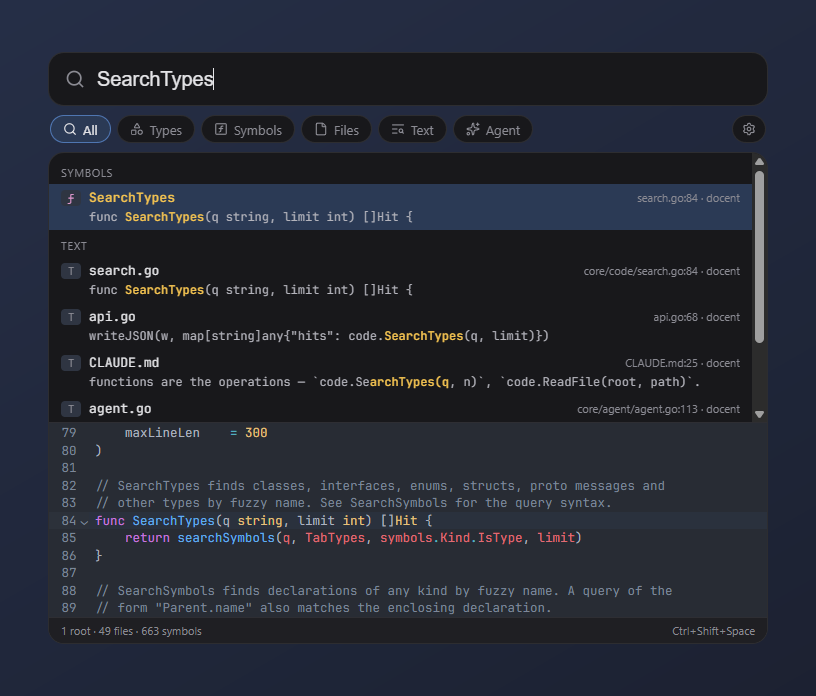
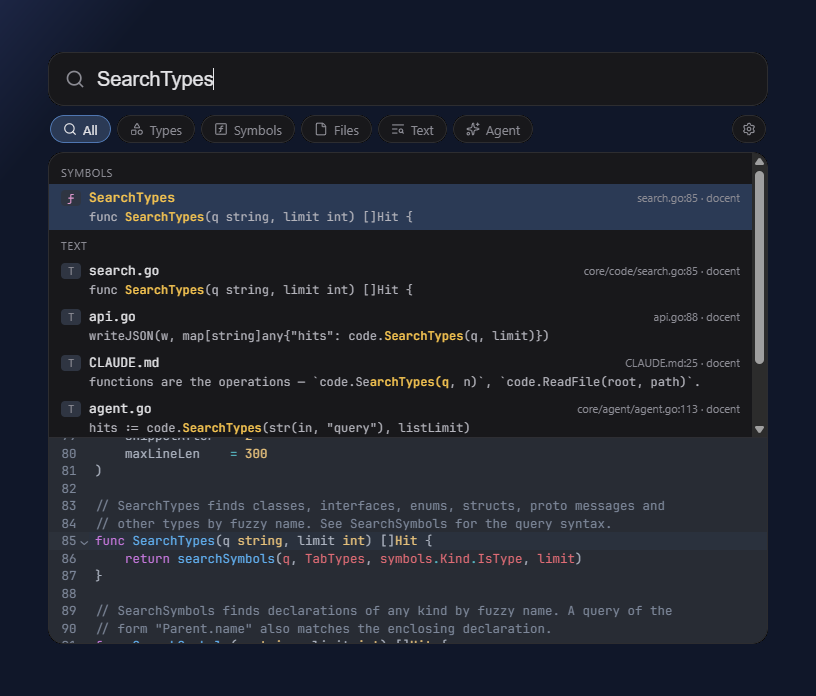
Refresh the screenshots; add the overview window and settings
Retaken from the current build on the docent repository: the palette,
the viewer, the overview window with a file and its usages, and the
Shortcuts tab of settings.

diff --git a/README.md b/README.md
@@ -39,6 +39,15 @@ Opening a result shows the file next to the search and the project tree:
 
 ![Viewer with search results and project tree](docs/screenshots/viewer.png)
 
+The overview window keeps files in tabs, with definitions and usages in a
+panel below the code:
+
+![Overview window with a file open and its usages](docs/screenshots/overview.png)
+
+Every shortcut can be changed in settings:
+
+![Settings, the Shortcuts tab](docs/screenshots/settings.png)
+
 The specification is [`DESIGN.md`](DESIGN.md).
 
 ## Installing
